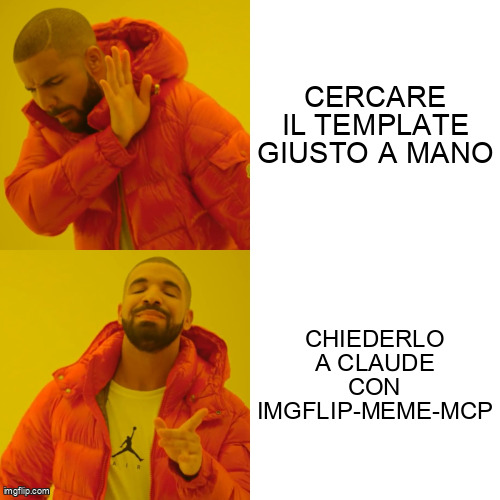
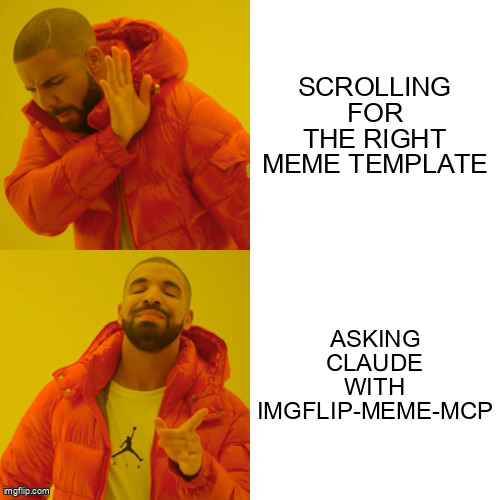
Translate README and project texts to English

Changed region(s): [[0.51, 0.15, 0.99, 0.36], [0.6, 0.66, 0.9, 0.81]]

diff --git a/test/server.test.ts b/test/server.test.ts
@@ -33,8 +33,8 @@ describe("MCP server", () => {
 
     const { prompts } = await client.listPrompts();
     expect(prompts.map((p) => p.name)).toEqual(["meme_from_sentence"]);
-    const prompt = await client.getPrompt({ name: "meme_from_sentence", arguments: { sentence: "il lunedì" } });
-    expect((prompt.messages[0].content as any).text).toContain('"il lunedì"');
+    const prompt = await client.getPrompt({ name: "meme_from_sentence", arguments: { sentence: "Mondays" } });
+    expect((prompt.messages[0].content as any).text).toContain('"Mondays"');
 
     expect(client.getInstructions()).toContain("find_templates");
   });
@@ -83,20 +83,20 @@ describe("MCP server", () => {
 
     const result = (await client.callTool({
       name: "create_meme",
-      arguments: { template_id: "181913649", texts: ["Deploy di lunedì", "Deploy di venerdì sera"], uppercase: true },
+      arguments: { template_id: "181913649", texts: ["Deploy on Monday", "Deploy on Friday evening"], uppercase: true },
     })) as CallToolResult;
 
     expect(result.isError).toBeFalsy();
     const data = jsonOf(result);
     expect(data).toMatchObject({ url: "https://i.imgflip.com/abc.jpg", page_url: "https://imgflip.com/i/abc" });
-    expect(data.texts).toEqual(["DEPLOY DI LUNEDÌ", "DEPLOY DI VENERDÌ SERA"]);
+    expect(data.texts).toEqual(["DEPLOY ON MONDAY", "DEPLOY ON FRIDAY EVENING"]);
     expect(data.warning).toBeUndefined();
 
     const image = result.content.find((c) => c.type === "image") as any;
     expect(image).toMatchObject({ mimeType: "image/jpeg", data: PNG.toString("base64") });
 
     const caption = calls.find((c) => c.url.endsWith("/caption_image"))!;
-    expect(caption.params.get("boxes[0][text]")).toBe("DEPLOY DI LUNEDÌ");
+    expect(caption.params.get("boxes[0][text]")).toBe("DEPLOY ON MONDAY");
     expect(caption.params.get("username")).toBe("u");
   });
 

diff --git a/test/imgflip.live.test.ts b/test/imgflip.live.test.ts
@@ -24,7 +24,7 @@ describe.skipIf(!hasCredentials)("live Imgflip via stdio", () => {
     const client = await stdioClient();
     try {
       const found = jsonOf(
-        await client.callTool({ name: "find_templates", arguments: { query: "preferire una cosa invece di un'altra" } }),
+        await client.callTool({ name: "find_templates", arguments: { query: "preferring one thing over another" } }),
       );
       expect(found.count).toBeGreaterThan(0);
       const drake = found.templates.find((t: any) => t.id === "181913649");
@@ -34,7 +34,7 @@ describe.skipIf(!hasCredentials)("live Imgflip via stdio", () => {
         name: "create_meme",
         arguments: {
           template_id: drake.id,
-          texts: ["Testare l'MCP a mano", "Farlo con vitest"],
+          texts: ["Testing the MCP by hand", "Testing it with vitest"],
           uppercase: true,
         },
       })) as CallToolResult;

diff --git a/README.md b/README.md
@@ -1,44 +1,44 @@
 # imgflip-meme-mcp
 
-MCP server per creare meme con l'[API di Imgflip](https://imgflip.com/api). Dai una frase a Claude: lui cerca i template adatti, ti propone alcune opzioni (template + testi per ogni box) e crea quella che scegli.
+An MCP server for making memes with the [Imgflip API](https://imgflip.com/api). Give Claude a sentence: it finds fitting templates, proposes a few options (template + text for every box) and creates the one you pick.
 
-<p align="center"><img src="docs/example-meme.jpg" alt="Meme Drake: no a cercare il template a mano, sì a chiederlo a Claude con imgflip-meme-mcp" width="360"></p>
+<p align="center"><img src="docs/example-meme.jpg" alt="Drake meme: no to scrolling for the right meme template, yes to asking Claude with imgflip-meme-mcp" width="360"></p>
 
-## Come funziona
+## How it works
 
-Il "ragionamento" lo fa il modello (Claude); l'MCP fornisce dati e azioni:
+The model (Claude) does the reasoning; the MCP server provides data and actions:
 
-1. `find_templates` / `list_templates` restituiscono i ~100 template più popolari con, per quelli noti, **quando si usano** (`usage`) e **cosa va in ogni box** (`box_roles`), da un catalogo curato in `src/catalog.ts`.
-2. Claude propone 3-5 opzioni con i testi già scritti.
-3. `create_meme` crea il meme scelto, restituisce l'URL e l'immagine (così Claude può controllarla).
+1. `find_templates` / `list_templates` return the ~100 most popular templates. For well-known formats they include **when to use them** (`usage`) and **what goes in each box** (`box_roles`), from a curated catalog in `src/catalog.ts`.
+2. Claude proposes 3-5 options with the captions already written.
+3. `create_meme` captions the chosen template and returns the URL plus the image, so Claude can check it.
 
-C'è anche un prompt MCP, `meme_from_sentence`, che avvia questo flusso.
+The `meme_from_sentence` MCP prompt starts this flow.
 
-## Strumenti
+## Tools
 
-| Tool | Cosa fa | Account |
+| Tool | What it does | Account |
 |---|---|---|
-| `list_templates` | Template popolari con note d'uso | gratis |
-| `find_templates` | Ricerca per concetto/emozione (IT/EN) sui popolari | gratis |
-| `get_template` | Dettagli di un template (popolari gratis, altri via Premium) | gratis / Premium |
-| `create_meme` | Crea il meme da template + testi | gratis |
-| `search_templates` | Ricerca nell'intero database (1M+ template) | Premium |
-| `create_gif_meme` | Meme su GIF animata | Premium |
-| `automeme` | Imgflip sceglie il template e usa il tuo testo | Premium |
-| `ai_meme` | Imgflip genera anche i testi | Premium |
+| `list_templates` | Popular templates with usage notes | free |
+| `find_templates` | Search popular templates by concept/emotion (English or Italian) | free |
+| `get_template` | Details for a template (popular IDs free, others via Premium) | free / Premium |
+| `create_meme` | Caption a template | free |
+| `search_templates` | Search the full database (1M+ templates) | Premium |
+| `create_gif_meme` | Caption an animated GIF | Premium |
+| `automeme` | Imgflip picks the template for your text | Premium |
+| `ai_meme` | Imgflip writes the captions too | Premium |
 
-Con un account gratuito i tool Premium rispondono con un errore chiaro che suggerisce l'alternativa gratuita. Anche la rimozione del watermark (`no_watermark`) è Premium.
+On a free account the Premium tools return a clear error that points to the free alternative. Removing the watermark (`no_watermark`) is also Premium.
 
-## Autenticazione
+## Authentication
 
-Variabili d'ambiente (vedi `.env.example`):
+Environment variables (see `.env.example`):
 
-- `IMGFLIP_API_KEY`: metodo consigliato, la key si crea dalle API Settings di Imgflip;
-- oppure `IMGFLIP_USERNAME` + `IMGFLIP_PASSWORD`: credenziali dell'account (metodo storico, ancora funzionante).
+- `IMGFLIP_API_KEY`: recommended; create a key in Imgflip's API Settings.
+- or `IMGFLIP_USERNAME` + `IMGFLIP_PASSWORD`: your account credentials (the legacy method, still supported).
 
-Se ci sono entrambi i metodi, vince l'API key. Senza credenziali si possono consultare i template, ma non creare meme.
+If both are set, the API key wins. Without credentials you can browse templates but not create memes.
 
-## Installazione
+## Installation
 
 ```bash
 npm install
@@ -49,8 +49,8 @@ npm run build
 
 ```bash
 claude mcp add imgflip \
-  -e IMGFLIP_USERNAME=tuo_username -e IMGFLIP_PASSWORD=tua_password \
-  -- node /percorso/assoluto/dist/stdio.js
+  -e IMGFLIP_USERNAME=your_username -e IMGFLIP_PASSWORD=your_password \
+  -- node /absolute/path/dist/stdio.js
 ```
 
 ### Claude Desktop (`claude_desktop_config.json`)
@@ -60,29 +60,38 @@ claude mcp add imgflip \
   "mcpServers": {
     "imgflip": {
       "command": "node",
-      "args": ["/percorso/assoluto/dist/stdio.js"],
-      "env": { "IMGFLIP_USERNAME": "tuo_username", "IMGFLIP_PASSWORD": "tua_password" }
+      "args": ["/absolute/path/dist/stdio.js"],
+      "env": { "IMGFLIP_USERNAME": "your_username", "IMGFLIP_PASSWORD": "your_password" }
     }
   }
 }
 ```
 
-### Server HTTP (Streamable HTTP, stateless)
+### HTTP server (Streamable HTTP, stateless)
 
 ```bash
 PORT=3000 npm run start:http      # endpoint: http://localhost:3000/mcp, health: /health
 ```
 
-Le credenziali Imgflip arrivano **per richiesta** negli header `X-Imgflip-Api-Key`, oppure `X-Imgflip-Username` + `X-Imgflip-Password`, così ogni utente usa il proprio account.
+Imgflip credentials are sent **per request** in the `X-Imgflip-Api-Key` header, or `X-Imgflip-Username` + `X-Imgflip-Password`, so each user uses their own account.
 
-Se imposti `MCP_AUTH_TOKEN`, il server richiede `Authorization: Bearer <token>` e, in assenza di header, usa le credenziali delle variabili d'ambiente. Senza token le credenziali d'ambiente **non** vengono mai usate via HTTP: altrimenti chiunque conosca l'URL creerebbe meme con il tuo account.
+If you set `MCP_AUTH_TOKEN`, the server requires `Authorization: Bearer <token>` and, when no credential headers are sent, falls back to the credentials in the environment. Without a token, environment credentials are **never** used over HTTP; otherwise anyone who knows the URL could create memes on your account.
 
-## Test
+## Usage
+
+Ask in plain language, e.g. *"Make a meme about deploying on Friday evening"*. Claude searches the templates, proposes numbered options such as:
+
+1. **This Is Fine**: "Deploying on Friday at 6pm" / "This is fine"
+2. **Drake**: "Deploying on Monday morning" / "Deploying on Friday at 6:59pm"
+
+Reply with your pick and it creates the meme and shares the link.
+
+## Tests
 
 ```bash
-npm test                 # unit + integrazione (fetch mockato, MCP in-memory e via HTTP)
-npm run build && IMGFLIP_USERNAME=... IMGFLIP_PASSWORD=... npm run test:live   # API reale, crea 1 meme
+npm test                 # unit + integration (mocked fetch, in-memory and HTTP MCP clients)
+npm run build && IMGFLIP_USERNAME=... IMGFLIP_PASSWORD=... npm run test:live   # real API, creates 1 meme
 npm run inspect          # MCP Inspector
 ```
 
-Nota: i meme creati sono pubblici tramite URL (non elencati) e Imgflip può cancellare quelli con pochissime visualizzazioni.
+Note: created memes are public via their URL (unlisted), and Imgflip may delete images with very few views.
